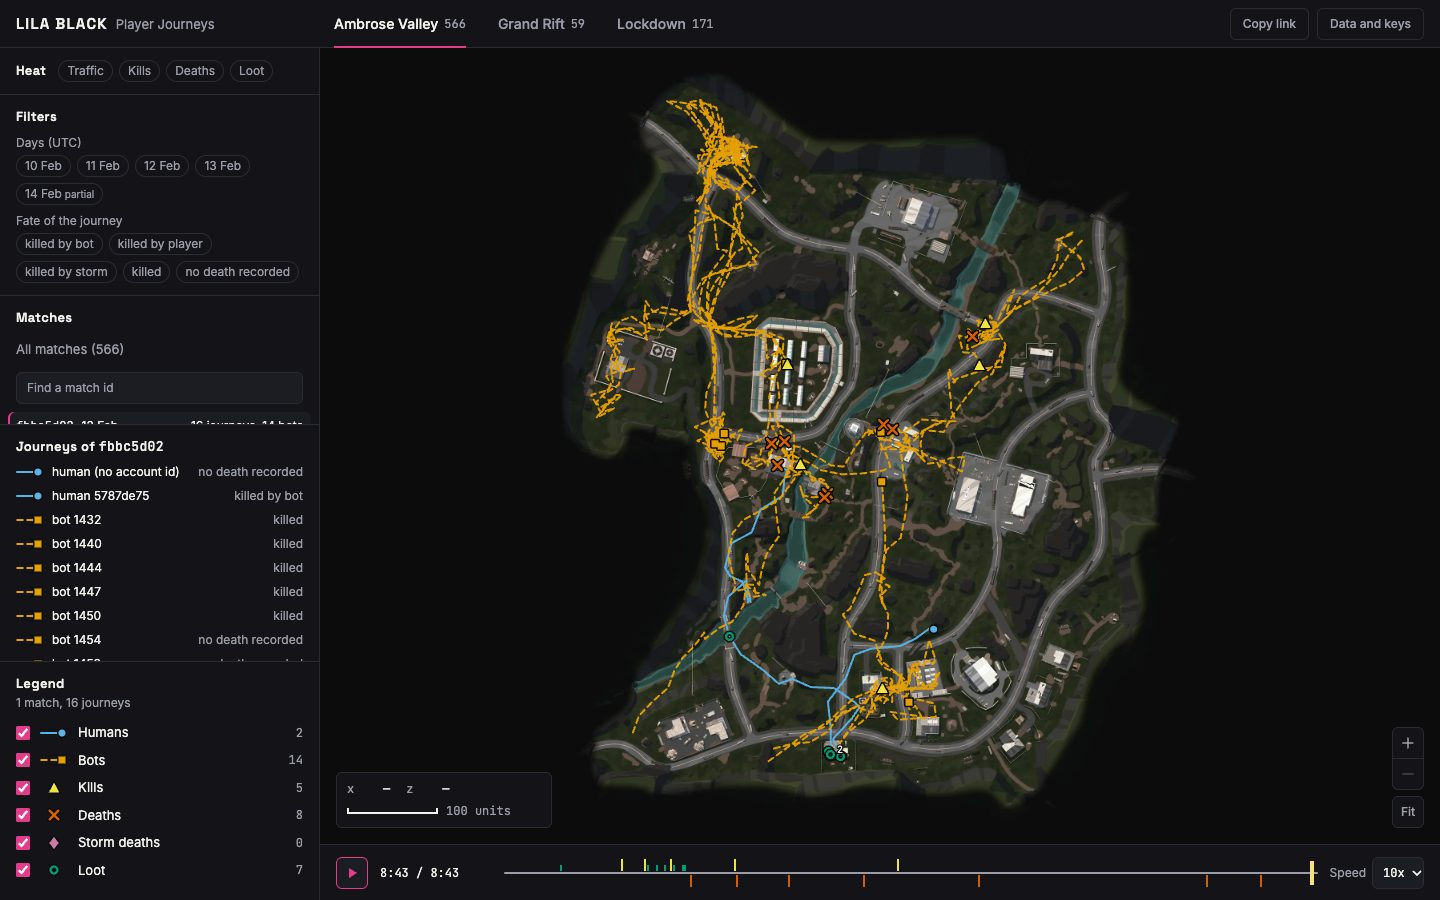
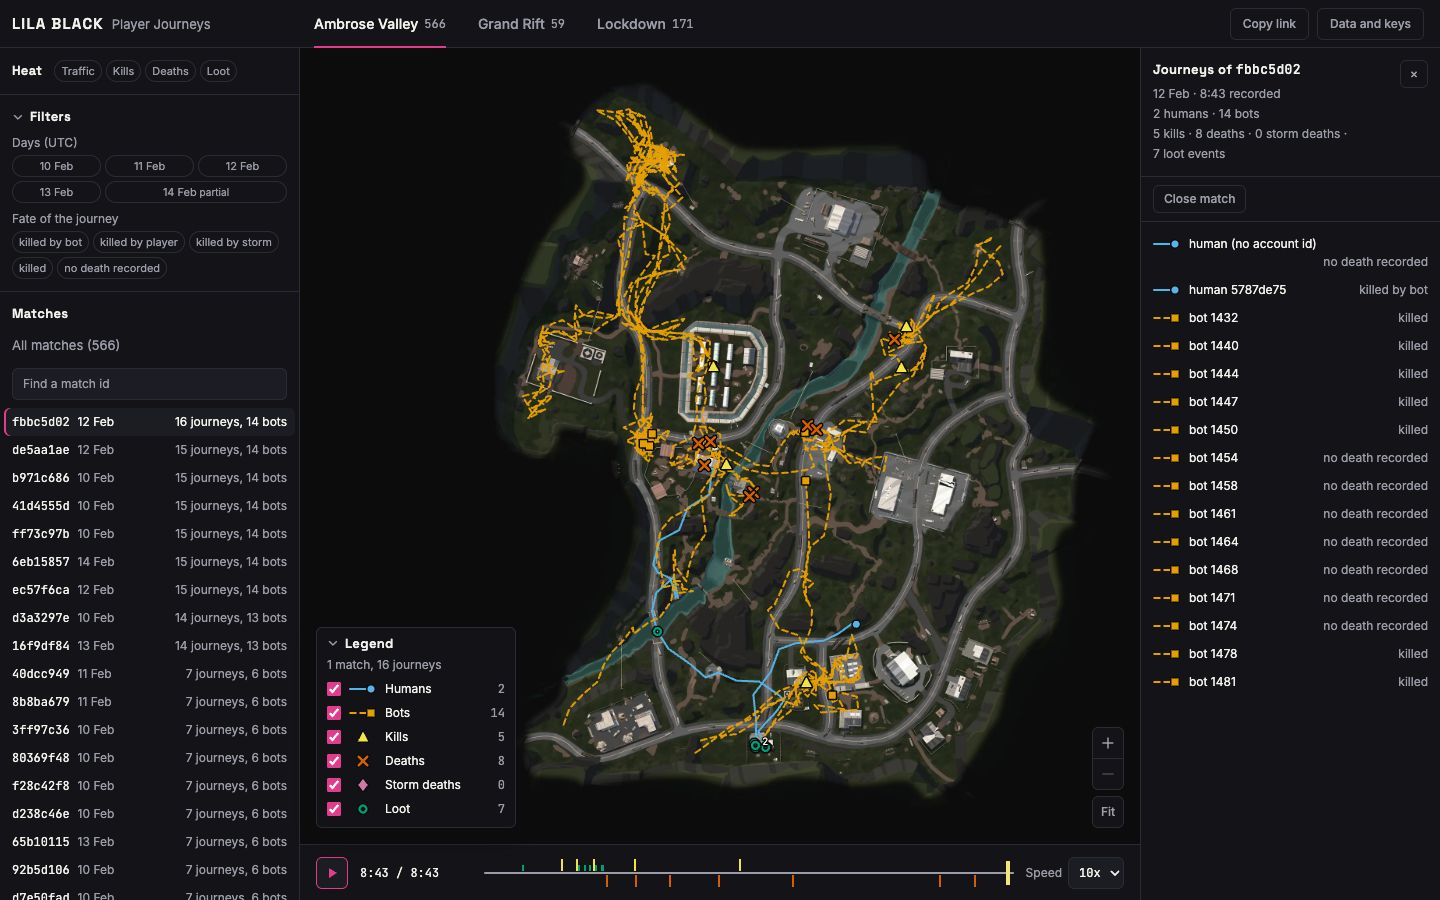
docs: the README, ARCHITECTURE and the QA report follow the new layout; screenshots retaken
The README's walkthrough names the legend card, the folding filters, the journeys panel and the
heat line's ⓘ, and its eight screenshots and the three of INSIGHTS.md show the new layout, taken
at 1440 x 900 from a production build of the branch. ARCHITECTURE gains the trade-off of the room
the fitted map keeps for the legend. The QA report records the redesign's tests: the room at the
three target sizes, the legend at Fit on all three maps with a contact sheet per size, the first
visit and the remembered folds, real clicks, a keyboard-only pass, Back and Forward, playback,
the review and the tests. Before and after screenshots are in docs/qa/ux-layout/.

diff --git a/docs/QA_REPORT.md b/docs/QA_REPORT.md
@@ -8,6 +8,7 @@ The full QA before submission, run on 24 Nov 2026 as the user's QA brief asks: t
 - **Working files:** `docs/BRIEF.md` (the brief as a checklist), the plan, the progress log and the audit were in the repo during the QA. They are the author's working files and are kept out of the submitted repo, so this report names them without links.
 - **Evidence:** screenshots in [docs/qa/](qa/); numbers and texts as read from the page.
 - **Result key:** PASS, PARTIAL, FAIL. "Observation" marks something that works but deserves a note.
+- **Layout redesign, 25 Nov:** the layout was redesigned after this QA. Its own test record is the last section, [Layout redesign](#layout-redesign-25-nov).
 
 ## Summary
 
@@ -140,3 +141,43 @@ Console and network in Group D: no console message from the tool's pages; no fai
 
 Console in the re-test: no message from the app. One warning came from Google's sign-in script on Vercel's login page, not from the tool.
 
+## Layout redesign (25 Nov)
+
+On a laptop the left column stacked five sections, and the match list and the journeys of an open match showed two or three rows each. The redesign (branch `ux-layout`) keeps what you choose on the left, puts what you read on the map, and gives the open match a panel on the right:
+
+- **Left column:** heat, filters and matches. The heat layer is summed up in one line ("1,789 kills · up to 29 per cell"); the ⓘ beside it opens the details. The filters fold away under a heading that counts the chosen chips, and the match list takes all the height that is left.
+- **Map:** the legend is a 200 px card at the bottom left that folds to a chip. At Fit the map leaves room for it: the fit reads each minimap's land and moves the map right or up, shrinking it only when moving is not enough, so that no land lies under the card. The read-out of x, z and the scale shows only while the pointer is over the map or the map has the keyboard focus.
+- **Right panel:** the open match's day, recorded span, humans and bots, and every marker, then its journeys. × and Escape close the panel and keep the match open; "Journeys (N)" on the map or the match's own row brings it back; "Close match" goes back to all matches. From 1200 px the panel has a column of its own and the map narrows; below 1200 px it floats over the map's right edge, ends above the zoom buttons, and the fitted map keeps room for it too.
+- **First visit:** the filters are expanded and the legend is open; after that the page remembers how the viewer left them.
+- **Unchanged:** the address and its fields, Back and Forward, playback, heat layers, filters, keys, the Data and keys panel. The panel's open state is not part of the address.
+
+**Method.** Exact window sizes were measured in headless Chrome (Playwright from its cache, no new dependency) on a production build of the branch served by `vite preview`; the final measurements and every screenshot use the build of `1421af4`. Real clicks, keys, Back and Forward, Copy link and playback ran in Claude in Chrome on the build of `6cf7f06`, and the view, zoom and playback again on `1421af4`, after the fit changed.
+
+**Before and after** (before: production at `b498e6b`; after: the branch; "all" is `?heat=kill`, "match" is `?match=fbbc5d02&journey=fbbc5d02-5787de75&heat=kill`):
+
+| Size | Before | After |
+|---|---|---|
+| 1280 × 800 | [all](qa/ux-layout/before-1280x800-all.jpg), [match](qa/ux-layout/before-1280x800-match.jpg) | [all](qa/ux-layout/after-1280x800-all.jpg), [match](qa/ux-layout/after-1280x800-match.jpg) |
+| 1440 × 900 | [all](qa/ux-layout/before-1440x900-all.jpg), [match](qa/ux-layout/before-1440x900-match.jpg) | [all](qa/ux-layout/after-1440x900-all.jpg), [match](qa/ux-layout/after-1440x900-match.jpg) |
+| 1920 × 1080 | [all](qa/ux-layout/before-1920x1080-all.jpg), [match](qa/ux-layout/before-1920x1080-match.jpg) | [all](qa/ux-layout/after-1920x1080-all.jpg), [match](qa/ux-layout/after-1920x1080-match.jpg) |
+
+**The legend at Fit, all three maps** (top row all matches, bottom row the busiest match with its panel; Ambrose Valley, Grand Rift, Lockdown): [1280 × 800](qa/ux-layout/fit-1280x800.jpg), [1440 × 900](qa/ux-layout/fit-1440x900.jpg), [1920 × 1080](qa/ux-layout/fit-1920x1080.jpg).
+
+| ID | What | Steps | Expected | Actual | Result |
+|---|---|---|---|---|---|
+| L1 | Room at the three target sizes | Both views at each size; rows counted only when fully visible; page and column scroll read; boxes of the panel, map, timeline, legend, read-out, zoom buttons and notes compared | At least 8 match rows and 10 journey rows; no page scroll; no overlap | 1280 × 800: 12 match rows, 16 of 16 journeys, map 717 × 696. 1440 × 900: 15, 16 of 16, 840 × 796. 1920 × 1080: 22, 16 of 16, 1320 × 976. No page scroll, no scrolling left column, no overlap at any size; fates in 2 rows, days in a grid of 3; the legend card 200 × 202 | PASS |
+| L2 | The legend covers no land at Fit (the user's addition 3) | Each map at each size, all matches and its busiest match; under the open card, minimap pixels brighter than the black background (land) and pixels of drawn journeys were counted | No land and no path under the card | Before the fix, with a match open, land filled up to 26% of the card (Ambrose Valley at 1280) and 1,686 path pixels lay under it (Lockdown at 1280). After it (`1421af4`): 0 path pixels in all 18 cases, 0 land pixels in 17; one pixel of rgb(42, 12, 15), the edge of Lockdown's dark red glow, at 1440 with a match open. The map keeps 100% of its fitted size in every all-matches view and at 1920; with a match open 88.7%, 92.0% and 81.5% at 1280, and 97.3%, 99.1% and 89.7% at 1440 (Ambrose Valley, Grand Rift, Lockdown) | PASS |
+| L3 | Below 1200 px | 1100 × 800, both views, all three maps | The panel floats over the map without covering the zoom buttons, read-out, timeline or land | Panel 286 × 568, ending above the zoom buttons; 13 of 16 journey rows; no page scroll, no overlap; no land under the card or the panel; with the panel open the map is 71%, 64% and 76% of its fitted size, and it grows back when the panel closes (0.572 to 0.744 pixels per unit on Lockdown) | PASS |
+| L4 | First visit and remembered folds (the user's additions 1 and 2) | A fresh browser profile; then both sections folded and the page reloaded; then both unfolded and reloaded | Open at first, then as the viewer left them | First visit: filters expanded, legend open, nothing stored. Folded and reloaded: both folded. Unfolded and reloaded: both open | PASS |
+| L5 | Read-out only while wanted | Pointer over the map, then away; the map focused with Tab | Hidden at rest, shown on hover and with the keyboard focus | Opacity 0 at rest, 1 on hover, 0 after leaving, at every size; shown while the map had the keyboard focus | PASS |
+| L6 | Real clicks | Chose `fbbc5d02` in the list; a journey in the panel; ×; "Journeys (16)"; the Filters heading, ⓘ and the legend's title, twice each; "Close match"; a reload | The panel follows each act; folds are kept across a reload | The match opened with its panel; the journey was focused and its row pressed; × closed the panel, the map went from 870 to 1,170 px, the match stayed open; "Journeys (16)" brought the panel back with the focus on its heading; the filters folded, the details opened ("5 kills of 1 match; the fullest cell holds 1. …", "Kill 0 · BotKill 5"), the legend folded to a chip, and all came back; "Close match" went back to all matches with the focus on "All matches" | PASS |
+| L7 | Keyboard only | Tab from the top of the page; in the lists, the arrows and Enter; Escape in the panel; Enter on "Journeys (16)"; "Close match" | Every stop in reading order with a visible focus ring; Escape closes the panel and keeps the match; the focus never falls to the top of the page | 33 stops: map tabs, Copy link, Data and keys, 4 heat chips, ⓘ, the Filters heading, 5 days, 5 fates, All matches, the search box, the match list, the map, the legend's title, 6 switches, the 3 zoom buttons, each with `:focus-visible` and a ring. Enter opened a match and left the focus in the list; Tab reached ×, "Close match" and the journey list; Escape closed the panel, kept the match and journey, and put the focus on "Journeys (16)"; Enter there reopened the panel. The panel's heading had no ring: fixed in `e15672d` and re-checked (2 px accent outline) | PASS after fix |
+| L8 | Back and Forward | Opened a match, focused a journey, closed the match; then Back three times and Forward three times | Each choice is one entry; the panel follows | Back: the match with its pressed journey and the panel, the match alone, all matches; Forward the same in reverse | PASS |
+| L9 | The view after the fit changed | Lockdown with a match open in Chrome: the wheel under a still pointer, a drag, Fit, "+" | The point under the pointer stays; Fit clears the view; "+" zooms about the middle of the free part | x −66, z 84 under the pointer before and after the wheel, while the scale bar went from 100 to 50 units; the drag moved the view; Fit took `view` out of the address; "+" gave the view `982.4,947.5,1.5`, the artwork's centre | PASS |
+| L10 | Copy link | Clicked "Copy link" | The link is copied | "Link copied" was announced. Reading the clipboard back raised Chrome's permission prompt, which the tool does not answer, so the clipboard's content was not read | PASS |
+| L11 | Playback at 20x, panel open | `fbbc5d02` and, after the fit changed, Lockdown's `d0a38c30`, at 20x; frames counted in the page, long tasks observed | About 60 frames a second, no long task | 360 frames in 6 s and 300 frames in 5 s: 60.0 a second both times; 95th percentile 17.4 and 17.5 ms, worst 17.7 ms; no frame over 25 ms; no long task; the address followed with `t` every 2 s | PASS |
+| L12 | Console | Reload, then the three maps, two heat layers, a fate filter, the panel and the folds; the re-check after the fit changed | No message | None in Chrome; none in headless Chrome at any size | PASS |
+| L13 | Independent review | Four reviewers (regressions; keyboard, focus and ARIA; layout and CSS; performance); a skeptic tried to refute each finding | Confirmed findings fixed | 10 findings, 10 confirmed, all fixed in `dc3e40e`: the panel named both switches when one hid its journeys; the legend card and the floating panel covered the tooltip; the journeys' "Try again" was gone while the minimap loaded; legend rows were 20 px (WCAG 2.5.8 asks 24); Back dropped the focus to the top of the page when it removed a focused control; "Journeys (N)" heard none of the map's keys and was the last Tab stop; journey rows cut the player id; "14 Feb partial" overflowed in a 260 px column; the legend rendered again on every hover change of the map | PASS after fixes |
+| L14 | Tests and size | `npm run check`, `npm run build`, `make test`; one-line faults put into the new logic one at a time | Green; every fault noticed | 514 Vitest tests (480 before), 263 pytest tests. One-line faults: 24 of 24 in the first pieces, 15 of 16 in the room for the legend; the 16th, dropping the early stop of the search, gives the same answer more slowly. JavaScript 300.70 kB, 93.68 kB with gzip -9, against 289.94 kB and 90.54 kB for what production serves | PASS |
+
+**Not covered by the tools:** a real window between 900 and 1,199 px wide and a real 1280 × 800 screen (measured in headless Chrome at those sizes); Safari and Firefox; the README walkthrough video, which shows the old layout and will be recorded again after the merge.

diff --git a/README.md b/README.md
@@ -64,19 +64,19 @@ docs/        data notes and format, plan and progress, proof images, screenshots
 
 Each step is a link into the live tool. A recording of the same steps: [docs/media/walkthrough.mp4](docs/media/walkthrough.mp4).
 
-1. **[Every journey of a map](https://lila-player-journeys-psi.vercel.app/).** Humans are solid blue lines with round heads, bots dashed orange lines with square heads. Triangles are kills, crosses deaths, diamonds deaths in the storm. Drag to move, scroll to zoom; hover a path or a marker for who, when and where.
+1. **[Every journey of a map](https://lila-player-journeys-psi.vercel.app/).** Humans are solid blue lines with round heads, bots dashed orange lines with square heads. Triangles are kills, crosses deaths, diamonds deaths in the storm. The legend card at the bottom left switches each of them on and off. Drag to move, scroll to zoom; hover a path or a marker for who, when and where.
 
    ![All journeys on Ambrose Valley](docs/img/walkthrough/01-all-matches.jpg)
 
-2. **[Filter by map and day](https://lila-player-journeys-psi.vercel.app/?map=Lockdown&days=February_10).** The tabs switch maps and show how many matches the filters leave on each. The chips filter by UTC day and by how a journey ended.
+2. **[Filter by map and day](https://lila-player-journeys-psi.vercel.app/?map=Lockdown&days=February_10).** The tabs switch maps and show how many matches the filters leave on each. The chips filter by UTC day and by how a journey ended; folded away, the Filters heading still says how many are on.
 
    ![Lockdown on 10 February](docs/img/walkthrough/02-map-and-day.jpg)
 
-3. **[Open one match](https://lila-player-journeys-psi.vercel.app/?match=fbbc5d02).** Search for a match id or choose from the list. This one has 2 humans and 14 bots. Loot appears as small rings, and the sidebar lists the journeys.
+3. **[Open one match](https://lila-player-journeys-psi.vercel.app/?match=fbbc5d02).** Search for a match id or choose from the list on the left. This one has 2 humans and 14 bots. Loot appears as small rings, and the panel on the right sums the match up and lists its journeys. Its × closes the panel and keeps the match open.
 
    ![Match fbbc5d02](docs/img/walkthrough/03-one-match.jpg)
 
-4. **[Focus a journey](https://lila-player-journeys-psi.vercel.app/?match=fbbc5d02&journey=fbbc5d02-5787de75).** Click a path, or choose the journey from the list, to pick it out from the others.
+4. **[Focus a journey](https://lila-player-journeys-psi.vercel.app/?match=fbbc5d02&journey=fbbc5d02-5787de75).** Click a path, or choose the journey in the panel, to pick it out from the others.
 
    ![One journey in focus](docs/img/walkthrough/04-focused-journey.jpg)
 
@@ -88,7 +88,7 @@ Each step is a link into the live tool. A recording of the same steps: [docs/med
 
    ![Journeys that ended in the storm](docs/img/walkthrough/06-fate-filter.jpg)
 
-7. **Heat layers:** [Traffic](https://lila-player-journeys-psi.vercel.app/?heat=movement), [Kills](https://lila-player-journeys-psi.vercel.app/?heat=kill), [Deaths](https://lila-player-journeys-psi.vercel.app/?map=Lockdown&heat=death) and [Loot](https://lila-player-journeys-psi.vercel.app/?heat=loot). The legend says what is counted, in how many matches, and at whose position. A layer follows every filter.
+7. **Heat layers:** [Traffic](https://lila-player-journeys-psi.vercel.app/?heat=movement), [Kills](https://lila-player-journeys-psi.vercel.app/?heat=kill), [Deaths](https://lila-player-journeys-psi.vercel.app/?map=Lockdown&heat=death) and [Loot](https://lila-player-journeys-psi.vercel.app/?heat=loot). The line under the heat buttons gives the count and the fullest cell; the ⓘ beside it says in how many matches, what is counted and at whose position. A layer follows every filter.
 
    ![Kills on Ambrose Valley](docs/img/walkthrough/07-heat-kills.jpg)
 

diff --git a/ARCHITECTURE.md b/ARCHITECTURE.md
@@ -61,6 +61,7 @@ All ten, with evidence: `docs/DATA_NOTES.md`.
 | One bundle per map | One file per match | 93% of matches hold one journey | Opening one match loads its map |
 | Heat binned in the browser | Precomputed grids | It follows every filter | About 2 ms of work per change |
 | No layer for ignored areas | Marking cells no path crosses | It needs a mask of walkable ground | Read from the Traffic layer |
-| No list of a journey's events | Text in the sidebar | Tooltips cover it | One event's details need a pointer |
+| No list of a journey's events | Text in the journeys panel | Tooltips cover it | One event's details need a pointer |
+| At Fit, the map leaves room for the legend card, read from each minimap's land | A card over the map, or a fixed gutter for the artwork's box | No land lies under the card on any map; the box's corners are mostly sea | With a match open the fitted map is 82–92% of its size at 1280 px, 90–99% at 1440 px |
 | Desktop only | Touch and pinch zoom | Level Designers work at a desk | A notice below 900 px |
 | A history entry per choice | One per change, or none | Back undoes a choice, not a drag | A double-click that changes the focus leaves one entry |
